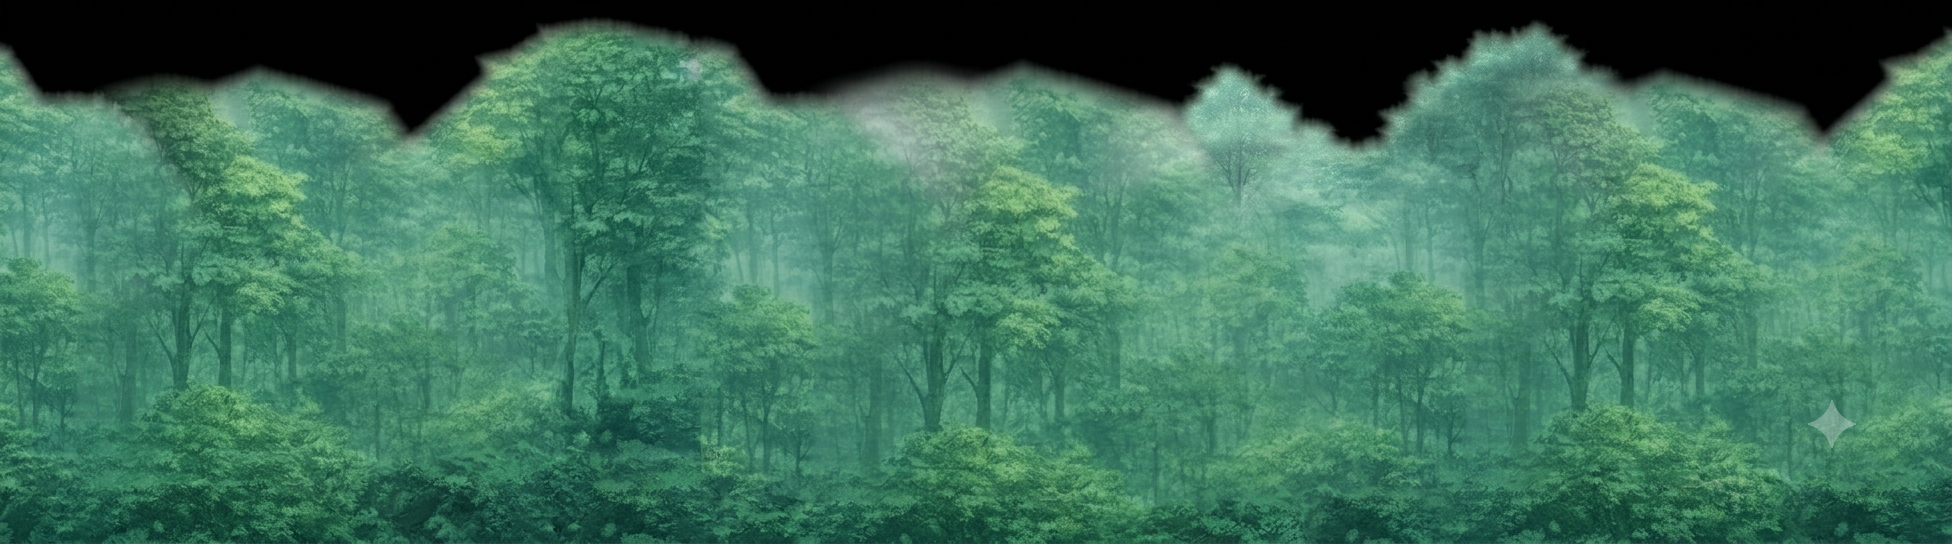
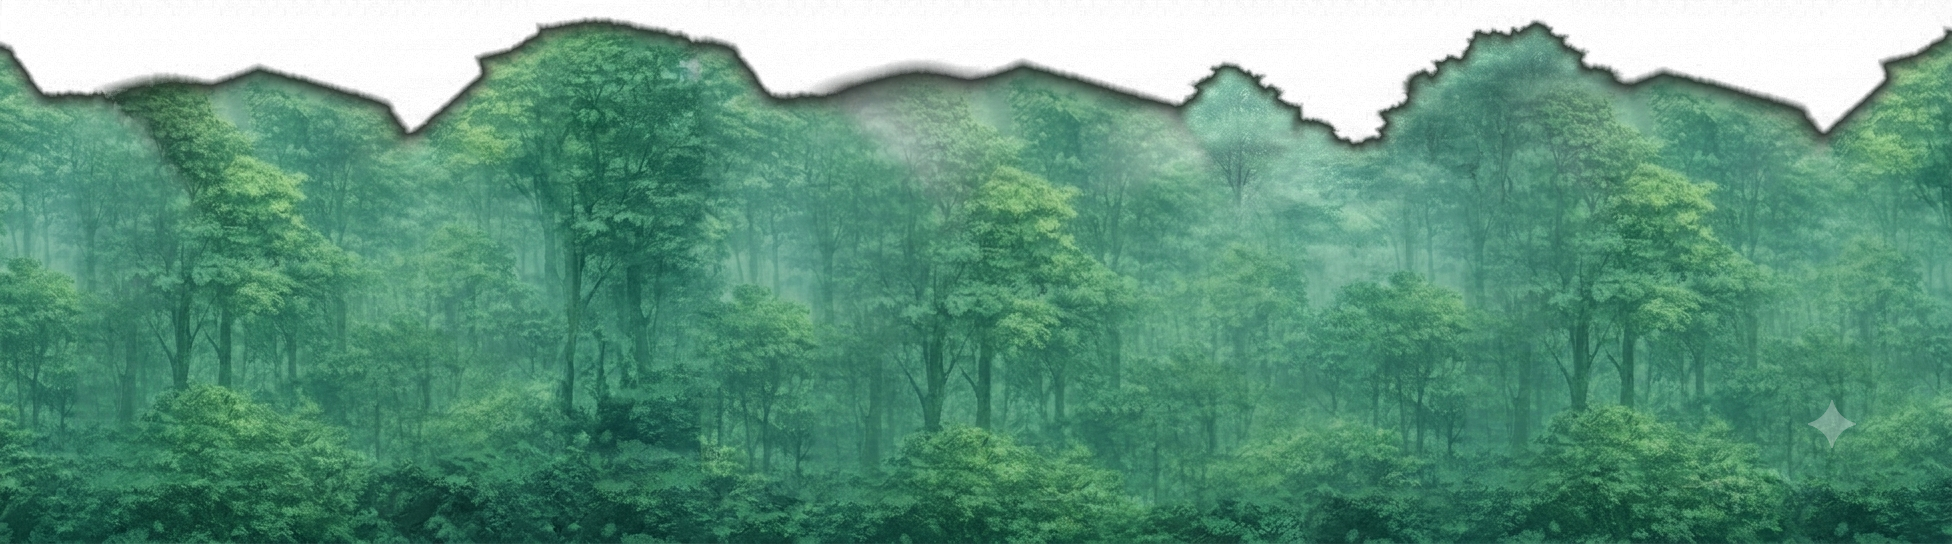
candy-dash: fix fg.png black sky band + version all asset URLs
- fg.png (Jonathan's new foreground canopy) shipped fully opaque: the
  area above the treeline was solid black, blotting out the sky. Fixed
  by converting blackness to transparency across the top 45% (alpha
  from the brightest channel, un-premultiplied colours so the canopy
  edge keeps a soft inked rim instead of a black fringe).
- Every sprite/layer URL now carries ?av=<ASSET_VERSION> — without it,
  phones kept serving stale cached art after a deploy (which is also
  why the fix looked broken locally until cache-busted). Bump
  ASSET_VERSION whenever art files change.

Changed region(s): [[0.0, 0.0, 1.0, 0.2812]]

diff --git a/candy-dash/game.js b/candy-dash/game.js
@@ -71,10 +71,15 @@
   // Player is Troll (canon: episode 7.5 — Troll explores the corrupted realms
   // while Sparkles's horn fires the candy-charged bolts). Frames are 256x256
   // PNGs copied from the Unity project's run cycle.
+  // Bump when any art asset changes so phones fetch the new files instead of
+  // serving stale cached copies (style.css/game.js have their own ?v=).
+  const ASSET_VERSION = 2;
+  const av = (p) => p + "?av=" + ASSET_VERSION;
+
   const idleSprite = new Image();
-  idleSprite.src = "assets/troll/troll-idle.png";
+  idleSprite.src = av("assets/troll/troll-idle.png");
   const unicornSitImg = new Image();
-  unicornSitImg.src = "assets/unicorn-sit.png";
+  unicornSitImg.src = av("assets/unicorn-sit.png");
 
   const RUN_FRAME_PATHS = [
     "assets/troll/troll-run-1.png",
@@ -91,13 +96,13 @@
   RUN_FRAME_PATHS.forEach((p, i) => {
     const img = new Image();
     img.onload = () => (runFrameSlots[i] = img);
-    img.src = p;
+    img.src = av(p);
   });
   let jumpFrame = null;
   {
     const img = new Image();
     img.onload = () => (jumpFrame = img);
-    img.src = JUMP_FRAME_PATH;
+    img.src = av(JUMP_FRAME_PATH);
   }
 
   const CROUCH_FRAME_PATHS = [
@@ -112,7 +117,7 @@
   CROUCH_FRAME_PATHS.forEach((p, i) => {
     const img = new Image();
     img.onload = () => (crouchFrameSlots[i] = img);
-    img.src = p;
+    img.src = av(p);
   });
 
   // Idle fidget: "look left" (16) -> "scratch bum" (7) -> a few frames of a
@@ -123,7 +128,7 @@
   for (let i = 1; i <= FIDGET_FRAME_COUNT; i++) {
     const img = new Image();
     img.onload = () => (fidgetFrameSlots[i - 1] = img);
-    img.src = `assets/troll/troll-fidget-${i}.png`;
+    img.src = av(`assets/troll/troll-fidget-${i}.png`);
   }
 
   // Enemy art hook: drop a transparent PNG at assets/enemies/<kind>.png
@@ -136,7 +141,7 @@
   ENEMY_KINDS.forEach((kind) => {
     const img = new Image();
     img.onload = () => (enemySprites[kind] = img);
-    img.src = `assets/enemies/${kind}.png`;
+    img.src = av(`assets/enemies/${kind}.png`);
   });
   // Purified counterpart shown while a hit enemy hops away (see purify()).
   // grunt.png is currently a placeholder (reuses the purified rabbit — no
@@ -145,12 +150,13 @@
   ENEMY_KINDS.forEach((kind) => {
     const img = new Image();
     img.onload = () => (purifiedSprites[kind] = img);
-    img.src = `assets/enemies/purified/${kind}.png`;
+    img.src = av(`assets/enemies/purified/${kind}.png`);
   });
 
   // Whispering Forest parallax + terrain. Downscaled from the Unity project's
   // production art (see tools/prep notes in docs/CANDY_DASH_2_PLAN.md).
   function loadImg(src) {
+    src = av(src);
     const img = new Image();
     // A busy or flaky connection (or dev server) can drop an image request;
     // retry a couple of times so a sprite doesn't stay missing all session.